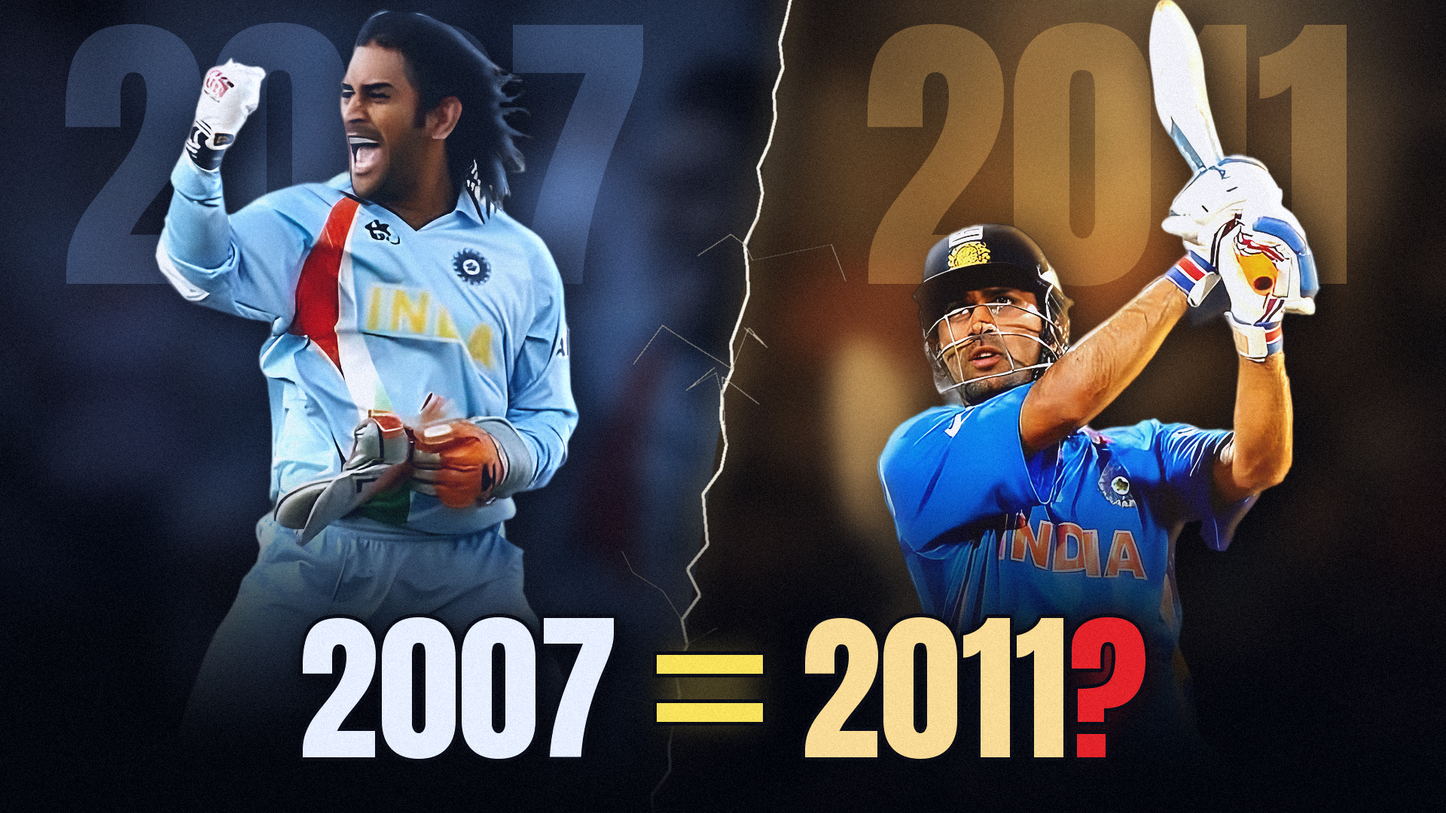
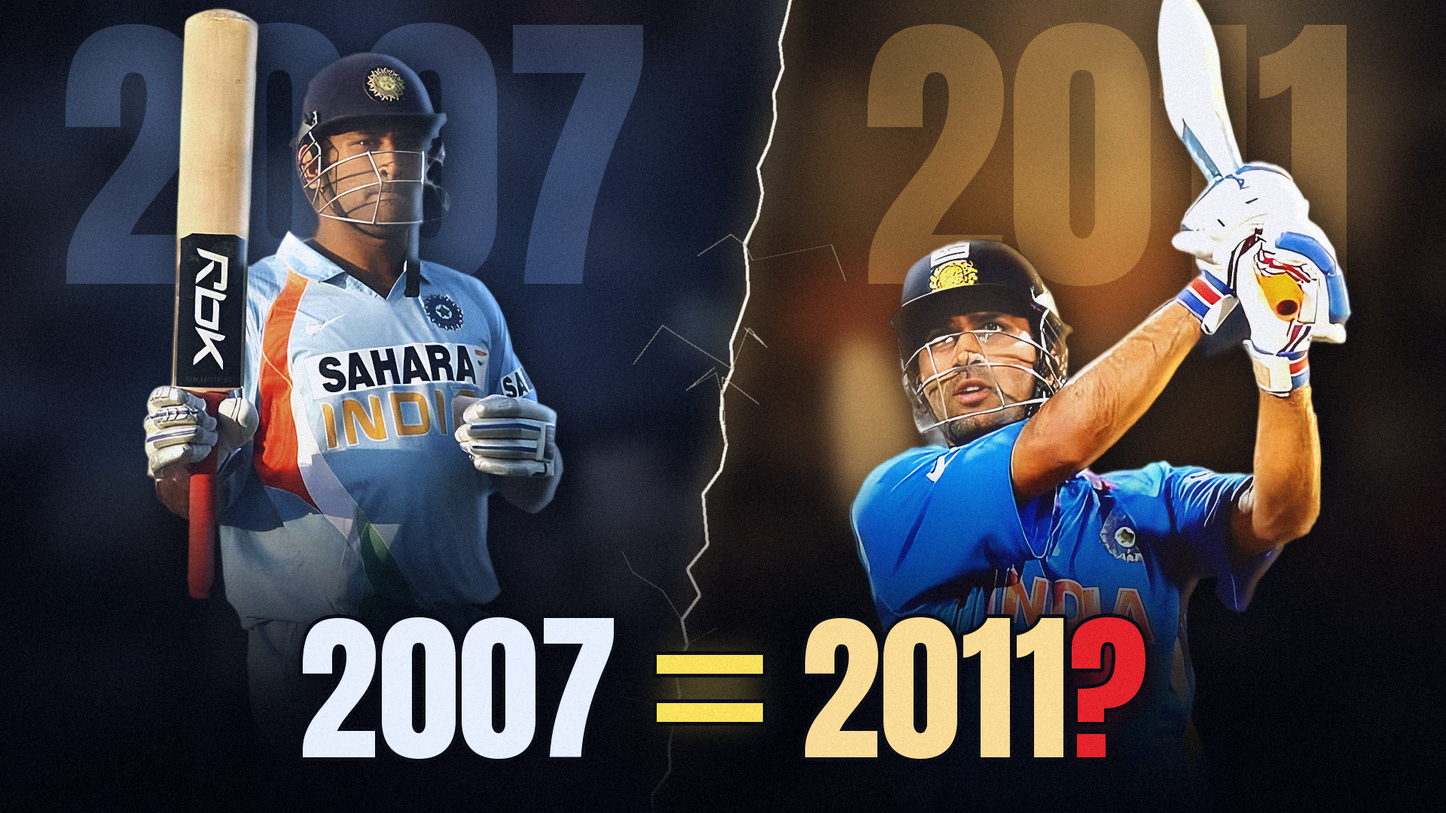
Dhoni thumbnail: render with the 2007 Sahara-kit photo, 2011 figure ~14% bigger, faces lit
Claude-Session: https://claude.ai/code/session_01SQh72PYSr2UGL5osbLDTTd

diff --git a/dhoni_2007_2011/thumb_dhoni.py b/dhoni_2007_2011/thumb_dhoni.py
@@ -143,8 +143,9 @@ def main():
     d7 = d7.resize((int(d7.width * 1060 / d7.height), 1060), Image.LANCZOS)
     d7 = regrade(d7, color=1.0, contrast=1.1, bright=1.04, sharpen=(1.0, 60, 1), tint=(170, 200, 240), tint_k=0.1)
     d7 = fade_bottom(d7, 640, 1000)
-    place(base, d7, 470 - d7.width // 2, 10, wrap=0.45, rim_color=(170, 210, 255), rim_side=1, rim_k=0.5,
-          shadow=0.75)
+    x7, y7 = 470 - d7.width // 2, 10
+    place(base, d7, x7, y7, wrap=0.45, rim_color=(170, 210, 255), rim_side=1, rim_k=0.5, shadow=0.75)
+    base = face_light(base, d7, x7, y7, (490, 245), 105, 0.34)  # lift the helmet shadow
 
     # RIGHT - 2011: the winning six, warm floodlight
     d11 = Image.open(os.path.join(HERE, "cut_2011.png")).convert("RGBA")
